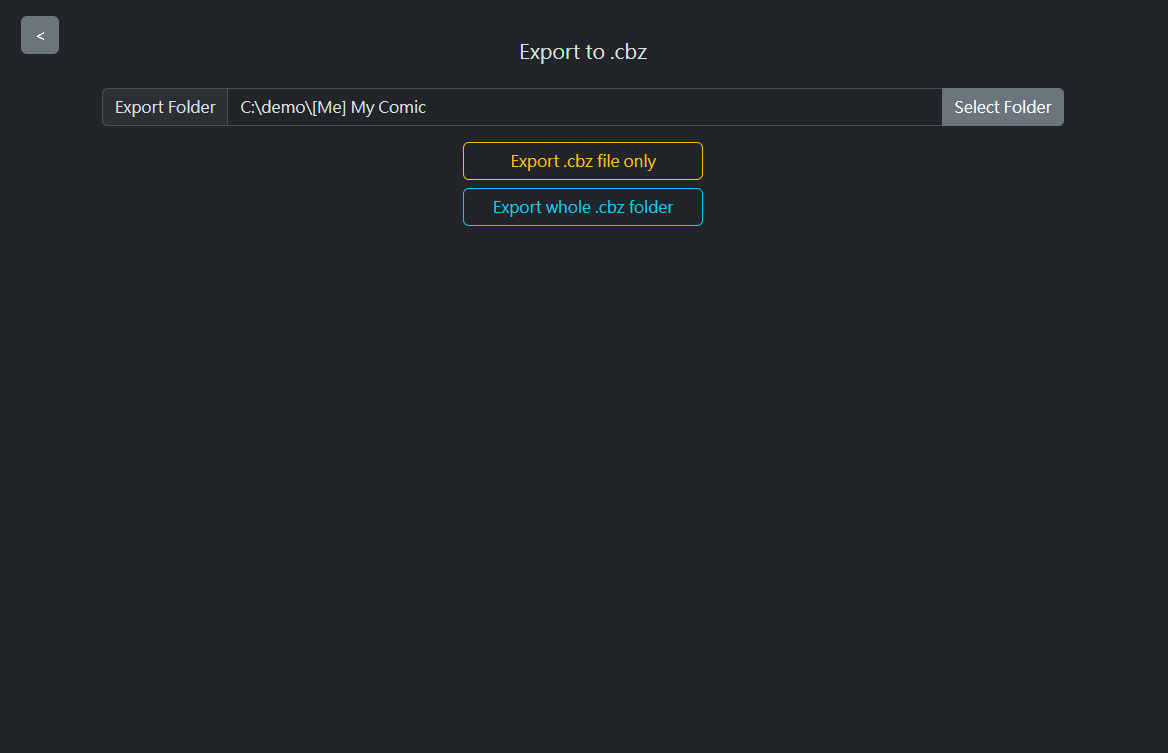
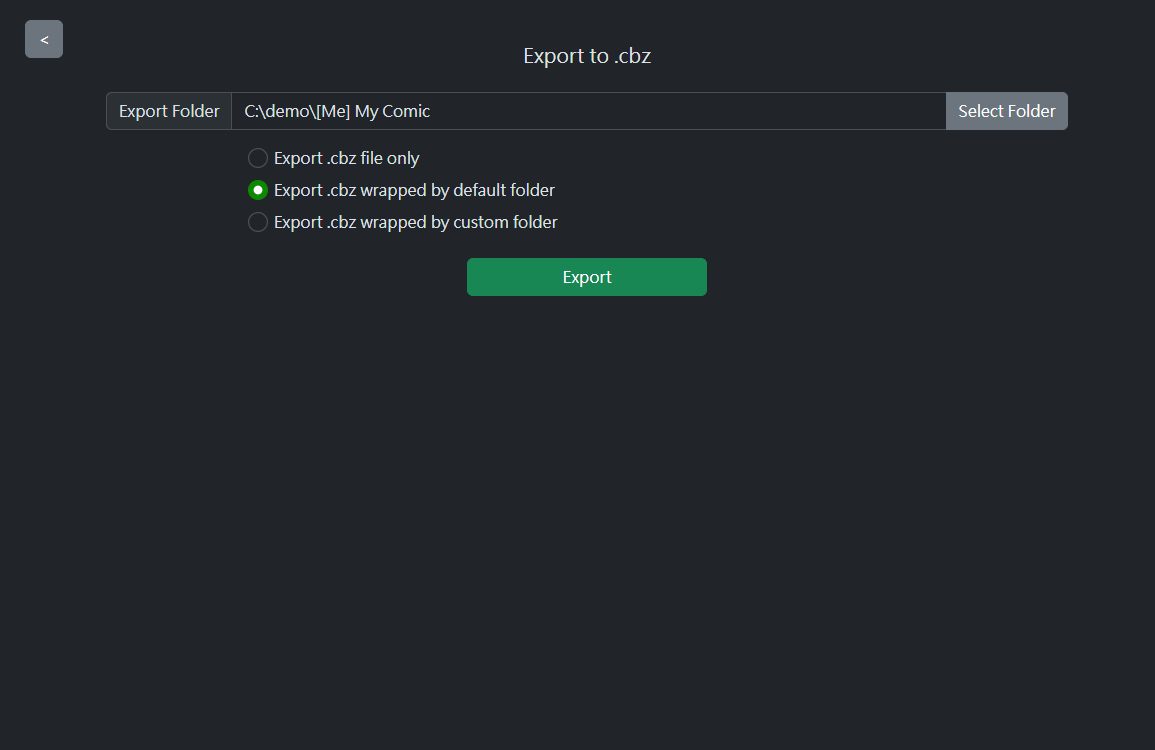
Update README with new UI screenshot

diff --git a/README.md b/README.md
@@ -52,10 +52,12 @@ More field will be added in near future.
 
 After preview & press button to export, User can defined export folder, and export in following options:
 
--   `.cbz` with `komga` folder structure
 -   `.cbz` file ONLY
+-   `.cbz` with `komga` folder structure, using book name as folder name
+-   `.cbz` with `komga` folder structure, using custom folder name
 
-<img src="screenshots/export.png" width="75%" height="75%">
+| ![Export UI](screenshots/export.png) | ![Custom Export](screenshots/export_custom.png) |
+| ------------------------------------ | ----------------------------------------------- |
 
 ### Quick Export (Komga Only)
 
